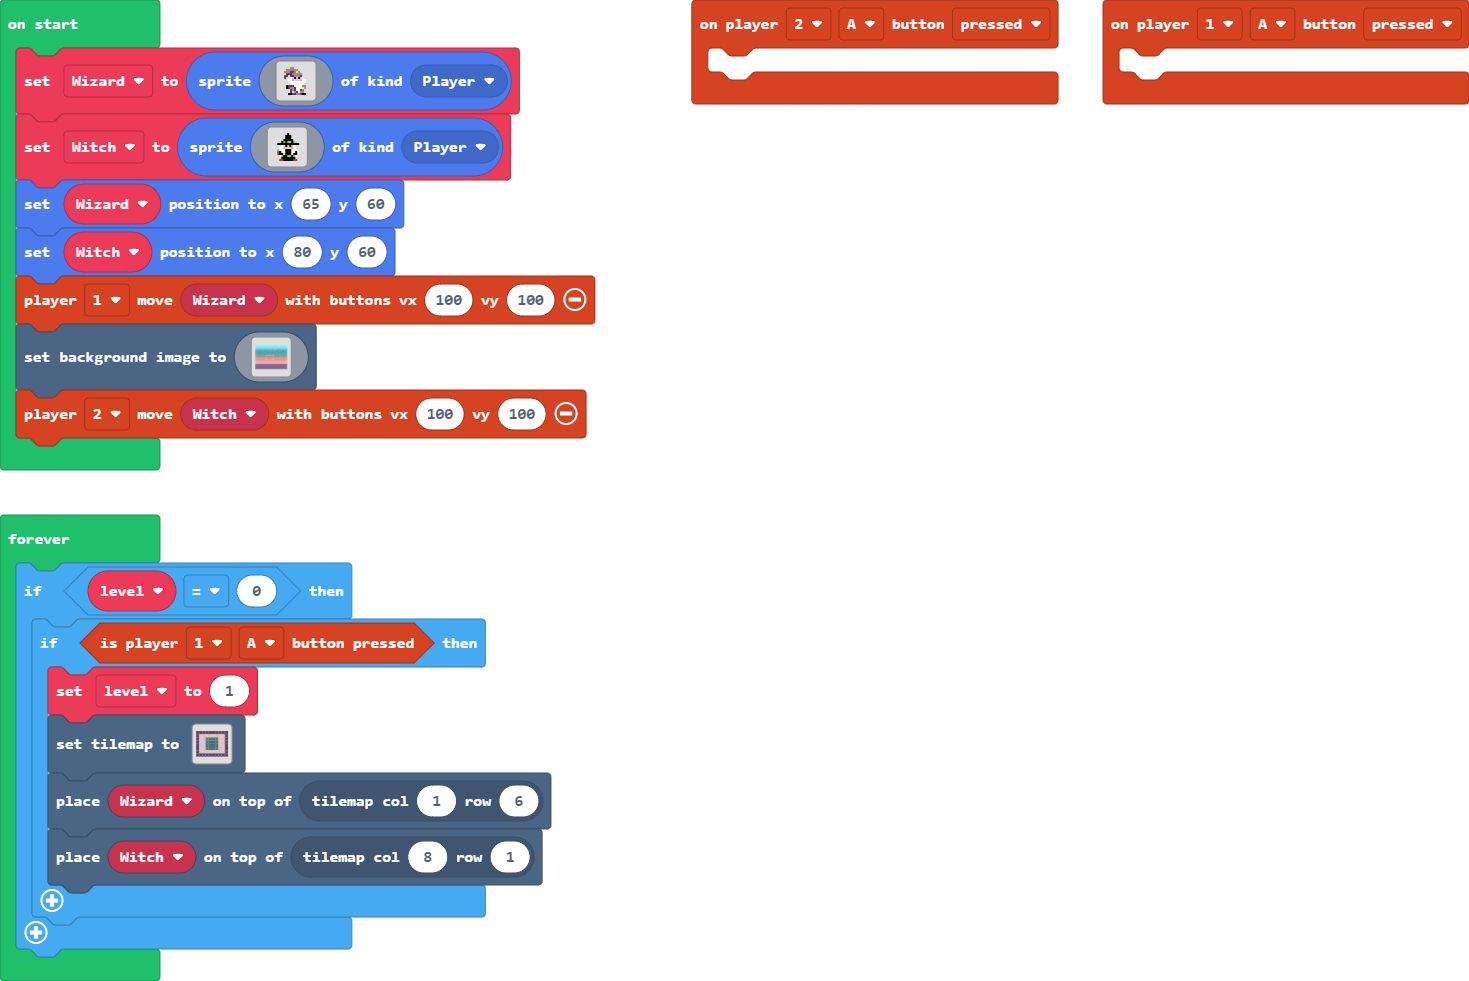
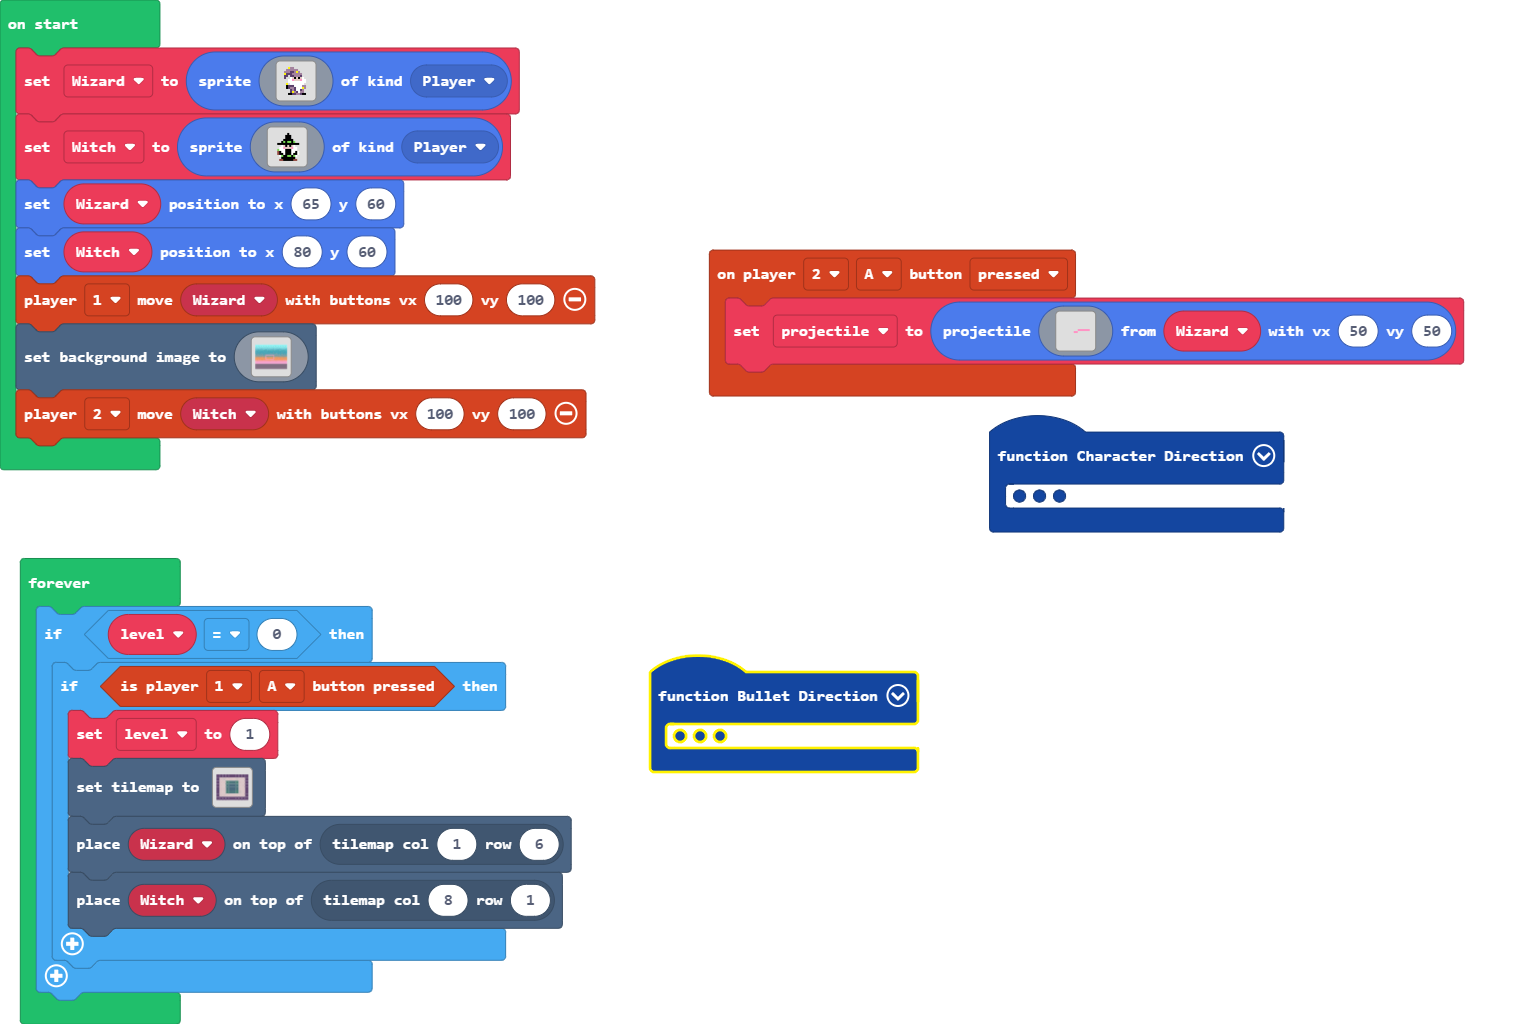
Update pxt.json, main.blocks, main.ts

diff --git a/main.ts b/main.ts
@@ -1,11 +1,130 @@
 controller.player2.onButtonEvent(ControllerButton.A, ControllerButtonEvent.Pressed, function () {
-	
+    projectile = sprites.createProjectileFromSprite(img`
+        . . . . . . . . . . . . . . . . 
+        . . . . . . . . . . . . . . . . 
+        . . . . . . . . . . . . . . . . 
+        . . . . . . . . . . . . . . . . 
+        . . . . . . . . . . . . . . . . 
+        . . . . . . . . . . . . . . . . 
+        . . . . . . . . . . . . . . . . 
+        . . . . . . . . . 3 3 3 3 3 3 . 
+        . . . . . . . 3 3 . . . . . . . 
+        . . . . . . . . . . . . . . . . 
+        . . . . . . . . . . . . . . . . 
+        . . . . . . . . . . . . . . . . 
+        . . . . . . . . . . . . . . . . 
+        . . . . . . . . . . . . . . . . 
+        . . . . . . . . . . . . . . . . 
+        . . . . . . . . . . . . . . . . 
+        `, Wizard, 50, 50)
 })
-controller.player1.onButtonEvent(ControllerButton.A, ControllerButtonEvent.Pressed, function () {
-	
-})
+function Bullet_Direction () {
+    if (Wizard.vy > 0) {
+        mySprite = 200
+    }
+    if (Wizard.vy > 0) {
+        mySprite = -200
+    }
+    if (Wizard.vy > 0) {
+        mySprite = 0
+    }
+    if (Wizard.vy > 0) {
+        mySprite = -200
+    }
+    if (Wizard.vy > 0) {
+        mySprite = 200
+    }
+    if (Wizard.vy > 0) {
+        mySprite = 0
+    }
+}
+function Character_Direction () {
+    if (Wizard.vy > 0) {
+        Wizard.setImage(img`
+            . . . . . . . . . . . . . . . . 
+            . . . . . . . . . . . . . . . . 
+            . . . . . . . . . . . . . . . . 
+            . . . . . . . . . . . . . . . . 
+            . . . . . . . . . . . . . . . . 
+            . . . . . . . . . . . . . . . . 
+            . . . . . . . . . . . . . . . . 
+            . . . . . . . . . . . . . . . . 
+            . . . . . . . . . . . . . . . . 
+            . . . . . . . . . . . . . . . . 
+            . . . . . . . . . . . . . . . . 
+            . . . . . . . . . . . . . . . . 
+            . . . . . . . . . . . . . . . . 
+            . . . . . . . . . . . . . . . . 
+            . . . . . . . . . . . . . . . . 
+            . . . . . . . . . . . . . . . . 
+            `)
+    }
+    if (Wizard.vy < 0) {
+        Wizard.setImage(img`
+            . . . . . . . . . . . . . . . . 
+            . . . . . . . . . . . . . . . . 
+            . . . . . . . . . . . . . . . . 
+            . . . . . . . . . . . . . . . . 
+            . . . . . . . . . . . . . . . . 
+            . . . . . . . . . . . . . . . . 
+            . . . . . . . . . . . . . . . . 
+            . . . . . . . . . . . . . . . . 
+            . . . . . . . . . . . . . . . . 
+            . . . . . . . . . . . . . . . . 
+            . . . . . . . . . . . . . . . . 
+            . . . . . . . . . . . . . . . . 
+            . . . . . . . . . . . . . . . . 
+            . . . . . . . . . . . . . . . . 
+            . . . . . . . . . . . . . . . . 
+            . . . . . . . . . . . . . . . . 
+            `)
+    }
+    if (Wizard.vx < 0) {
+        Wizard.setImage(img`
+            . . . . . . . . . . . . . . . . 
+            . . . . . . . . . . . . . . . . 
+            . . . . . . . . . . . . . . . . 
+            . . . . . . . . . . . . . . . . 
+            . . . . . . . . . . . . . . . . 
+            . . . . . . . . . . . . . . . . 
+            . . . . . . . . . . . . . . . . 
+            . . . . . . . . . . . . . . . . 
+            . . . . . . . . . . . . . . . . 
+            . . . . . . . . . . . . . . . . 
+            . . . . . . . . . . . . . . . . 
+            . . . . . . . . . . . . . . . . 
+            . . . . . . . . . . . . . . . . 
+            . . . . . . . . . . . . . . . . 
+            . . . . . . . . . . . . . . . . 
+            . . . . . . . . . . . . . . . . 
+            `)
+    }
+    if (Wizard.vx > 0) {
+        Wizard.setImage(img`
+            . . . . . . . . . . . . . . . . 
+            . . . . . . . . . . . . . . . . 
+            . . . . . . . . . . . . . . . . 
+            . . . . . . . . . . . . . . . . 
+            . . . . . . . . . . . . . . . . 
+            . . . . . . . . . . . . . . . . 
+            . . . . . . . . . . . . . . . . 
+            . . . . . . . . . . . . . . . . 
+            . . . . . . . . . . . . . . . . 
+            . . . . . . . . . . . . . . . . 
+            . . . . . . . . . . . . . . . . 
+            . . . . . . . . . . . . . . . . 
+            . . . . . . . . . . . . . . . . 
+            . . . . . . . . . . . . . . . . 
+            . . . . . . . . . . . . . . . . 
+            . . . . . . . . . . . . . . . . 
+            `)
+    }
+}
 let level = 0
-let Wizard = sprites.create(img`
+let mySprite = 0
+let projectile: Sprite = null
+let Wizard: Sprite = null
+Wizard = sprites.create(img`
     . . . . . . . . . . . . . . . . 
     . . . . 5 b b . . . . . . . . . 
     . . . b b b b b b . . . . . . . 
